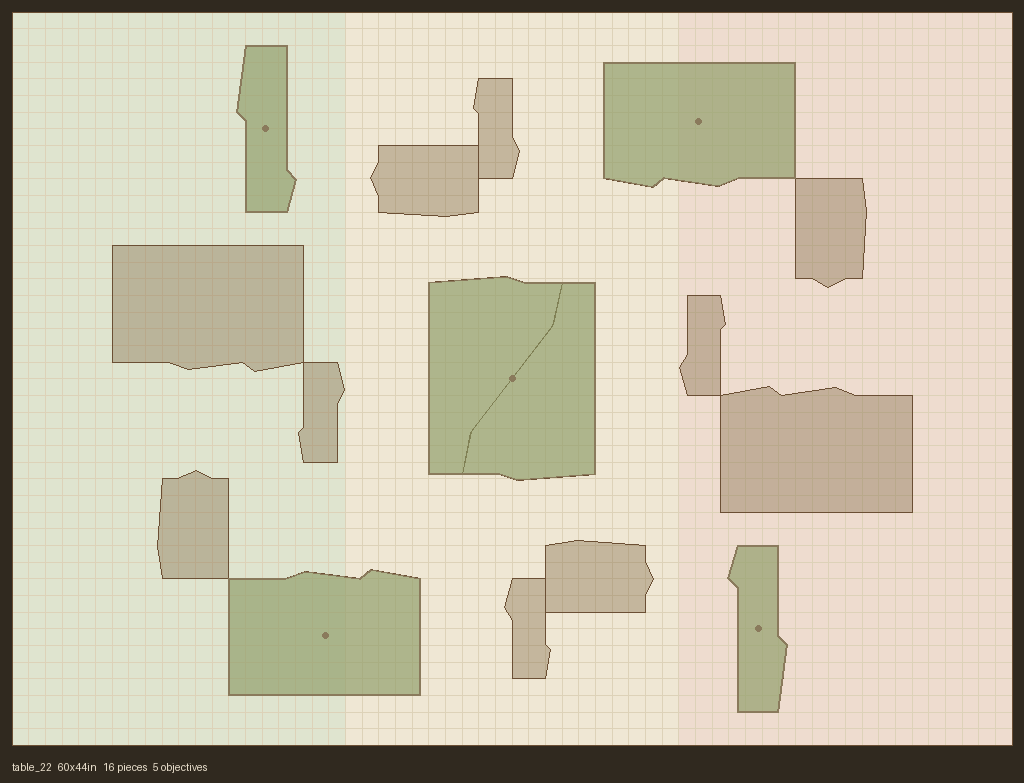
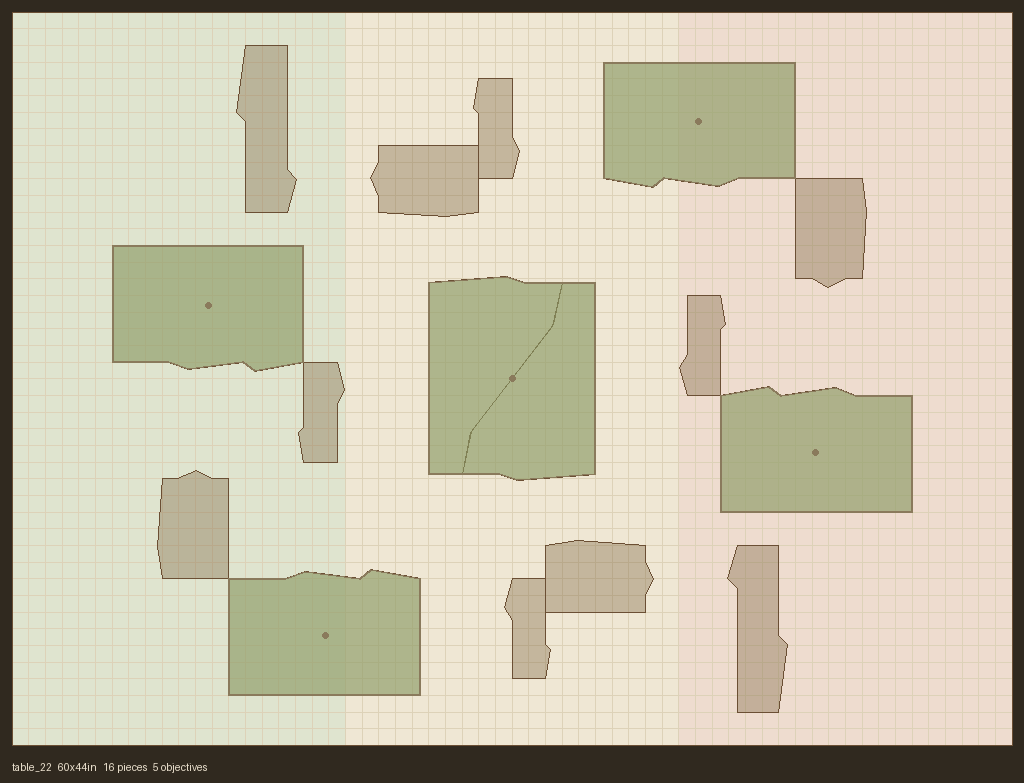
fix: the marker's reach is an authoring distance, not the control range
table_02 and table_06 disagreed with every one of their hand-traced objectives.
Both put two objectives on 25-38 sq in L-shapes while 82.5 sq in ruins sat a
little further off -- and the cause was using the rules' 3in control range to
decide which ruins a marker can designate.

The layouts do not place markers that way. They routinely put a marker
3.75-4.0in from the large ruin it plainly means, with a scrap of scatter
terrain 2-3in away on the other side, so a 3in cutoff excluded the real answer
and left only the scrap.

MARKER_REACH_IN is 4.5in, and the pool hands the number over rather than it
being fitted: marker-to-ruin distances cluster below 4in and again from 5in,
the 4.5 bin holds 2 of them against 18 just below and 28 just above, and the
resolution is identical anywhere in 4.0-5.0.

Measured against the objectives these tables used to carry by hand:
  agreement   84% (nearest) -> 91% (largest within 3in) -> 96% (within 4.5in)
  count match                                24/45 -> 41/45 -> 44/45
  per-table counts  {5:25, 6:20} against the hand-traced {5:24, 6:21}

And the two deployment zones now balance EXACTLY at 78/78 -- which was not
aimed at, and is the check that matters on point-symmetric boards.

Claude-Session: https://claude.ai/code/session_0127MrRtG1MgLetHCFW43vdr

Changed region(s): [[0.7188, 0.8889, 0.75, 0.9195], [0.7188, 0.7969, 0.75, 0.8276], [0.25, 0.1533, 0.2812, 0.1839]]

diff --git a/scripts/fetch_map_layouts.py b/scripts/fetch_map_layouts.py
@@ -28,7 +28,6 @@ import numpy as np
 from shapely.geometry import Polygon as ShapelyPolygon
 from shapely.ops import unary_union
 
-from wargame_rl.wargame.envs.domain.rules_constants import OBJECTIVE_MARKER_RANGE_IN
 from wargame_rl.wargame.envs.types.geometry import Polygon
 from wargame_rl.wargame.envs.types.terrain_observation import TERRAIN_VERTEX_BUDGET
 
@@ -66,6 +65,18 @@ RUIN_CONTACT_IN = 1.0
 # objective the layout plainly intends. Ties are resolved by taking all of them,
 # which is also what the hand-traced tables did: it reproduces their 5-or-6
 # objective split on 41 of 45 tables, against 24 when every marker took one.
+# How far the layout places a marker from the ruin it designates. **This is not
+# the rules' 3in control range**, and using that range was wrong: the layouts
+# routinely put a marker 3.75-4.0in from the large ruin it plainly means, with a
+# scrap of scatter terrain 2-3in away on the other side, so a 3in cutoff handed
+# the objective to the scrap. Measured over all 45 tables, marker-to-ruin
+# distances cluster below 4in and again from 5in, with a trough at 4.5 holding
+# only 2 of them against 18 just below and 28 just above -- and the resolution is
+# identical anywhere in 4.0-5.0, so the constant sits in a gap rather than on a
+# fitted edge. It lifts agreement with the hand-traced objectives from 91% to
+# 96%, and the objective count matches theirs on 44 of 45 tables.
+MARKER_REACH_IN = 4.5
+
 TIE_DISTANCE_IN = 1.0
 TIE_AREA_FRACTION = 0.01
 
@@ -329,7 +340,7 @@ def objectives_for(markers: list[Point], pieces: list[Polygon]) -> list[dict[str
     order = sorted(
         range(len(markers)),
         key=lambda m: (
-            sum(1 for d, _ in ranked(markers[m]) if d <= OBJECTIVE_MARKER_RANGE_IN),
+            sum(1 for d, _ in ranked(markers[m]) if d <= MARKER_REACH_IN),
             markers[m],
         ),
     )
@@ -340,7 +351,7 @@ def objectives_for(markers: list[Point], pieces: list[Polygon]) -> list[dict[str
         candidates = [
             (d, i)
             for d, i in ranked(markers[m])
-            if d <= OBJECTIVE_MARKER_RANGE_IN and i not in claimed
+            if d <= MARKER_REACH_IN and i not in claimed
         ]
         if not candidates:
             fallback = next(i for _, i in ranked(markers[m]) if i not in claimed)

diff --git a/tests/test_measure_maps.py b/tests/test_measure_maps.py
@@ -288,12 +288,12 @@ def test_no_shipped_objective_covers_part_of_a_ruin() -> None:
     225 objectives covering half a ruin. Every count still read five and every
     marker still resolved; only looking at a rendered table showed it.
 
-    **No disc objectives.** A marker beyond control range of every ruin resolves
-    to the nearest one anyway, because an objective that is not ground would be
-    the previous edition's free-standing marker under a new name.
+    **No disc objectives.** A marker out of reach of every ruin resolves to the
+    nearest one anyway, because an objective that is not ground would be the
+    previous edition's free-standing marker under a new name.
 
     **Five or six per table.** Each marker takes its own ruin -- the biggest one
-    within control range, since a marker sitting in a gap next to a scrap of
+    within `MARKER_REACH_IN`, since a marker sitting in a gap next to a scrap of
     scatter terrain would otherwise hand the objective to the scrap. A marker
     equidistant from two equally large ruins designates *both*, which is what
     makes a table carry six: these boards are point-symmetric, so the centre
@@ -321,7 +321,7 @@ def test_no_shipped_objective_covers_part_of_a_ruin() -> None:
                     f"{inside.mean():.0%} of piece {index}"
                 )
     # Five, or six where a marker's two candidates tie. Reproduces the
-    # hand-traced split on 41 of 45 tables, against 24 when ties were broken
-    # arbitrarily.
+    # hand-traced count on 44 of 45 tables, and lands 96% of objectives within
+    # 3in of a hand-picked one.
     assert set(counts) == {5, 6}
-    assert sum(counts) == 242
+    assert sum(counts) == 245

diff --git a/tests/test_map_layout_ingest.py b/tests/test_map_layout_ingest.py
@@ -320,3 +320,23 @@ def test_an_unequal_pair_is_not_a_tie() -> None:
     assert len(objectives) == 1
     area = Polygon.from_points([(x, y) for x, y in objectives[0]["area"]])
     assert area.contains(8.0, 4.0), "the big ruin"
+
+
+def test_a_big_ruin_just_out_of_control_range_still_wins() -> None:
+    """`MARKER_REACH_IN` is an authoring distance, not the rules' control range.
+
+    The layouts routinely place a marker 3.75-4.0in from the large ruin it
+    plainly designates, with a scrap of scatter terrain 2-3in away on the other
+    side. Cutting candidates at the rules' 3in handed the objective to the
+    scrap on `table_02` and `table_06`; both then disagreed with every one of
+    the hand-traced objectives for those tables.
+    """
+    scrap = Polygon.from_points([(0.0, 0.0), (4.0, 0.0), (4.0, 4.0), (0.0, 4.0)])
+    ruin = Polygon.from_points([(10.0, 0.0), (22.0, 0.0), (22.0, 8.0), (10.0, 8.0)])
+
+    # 2in from the scrap, 4in from the ruin -- outside control range, inside reach.
+    objectives = objectives_for([(6.0, 2.0)], [scrap, ruin])
+
+    assert len(objectives) == 1
+    area = Polygon.from_points([(x, y) for x, y in objectives[0]["area"]])
+    assert area.contains(16.0, 4.0), "the ruin four inches away, not the scrap two away"

diff --git a/wargame_rl/wargame/envs/CLAUDE.md b/wargame_rl/wargame/envs/CLAUDE.md
@@ -23,7 +23,7 @@ Applies to everything under `wargame_rl/wargame/envs/`.
 - **`random_terrain.count` is fixed while size and position vary** — `observations_to_tensor_batch` stacks terrain, so a varying piece count cannot be collated. `mirror: true` keeps the two fixed deployment zones on equal ground; `mirror_mode` picks how (`reflect_x`, the default, or `rotate_180`, which is the symmetry the authored tables are actually built on — under it the odd piece is centred in *both* axes). `angled_fraction` rotates that fraction of small pieces off-axis; a rotated piece is fitted to its **bounding box**, never the centroid-symmetric box, or an asymmetric outline outgrows the allotment it was sampled for and overlaps a neighbour. Both default to the existing behaviour
 - **`map_pool` is the third terrain mode, and the only one that trains on real tables.** `terrain` is one fixed board, `random_terrain` a generated one, and `map_pool` draws a whole layout — terrain *and* objectives — from a directory of `TerrainMapConfig` files, one per episode. All three are mutually exclusive; combining them is rejected at load, because one would silently overwrite the other. `MapPool` (`envs/map_pool.py`) parses every file, builds every polygon and runs every check **once at construction**, so a draw is an index; `place_for_episode` takes the drawn `MapLayout` as a plain domain value, which is what keeps the filesystem out of `domain/`. The draw comes off the layout RNG, so a seeded reset picks the same table twice, and `env.map_name` attributes an episode to it. A map that carries terrain alone falls through to the scenario's own objective placement, run against *that* layout's ruins. **`names` is the split and it is why the field exists**: training on every map leaves no layout the agent has not seen and makes a transfer number meaningless — `configs/experiments/25v25_real_maps.yaml` trains on 36 and holds out every table whose number is divisible by 5. **`map_pool.mirror` (default off) draws each layout in one of four orientations**, off the same RNG so a seeded episode still reproduces, and the name gains an `:x` / `:y` / `:xy` suffix so an episode stays attributable to its source table. Expect exactly **2x, not 4x** — the generated tables are point-symmetric to the measurement floor (median 0.00in from their own 180-degree rotation, worst 0.71; the hand-traced ones sat 1.7 out), so `rot180` is the identity and the `xy` flip IS the table while `x` IS `y`. Held-out tables stay held out: `names` filters at load, before any mirroring. Objective *count* varies per episode across a mixed pool, which `Battle.set_objectives` handles by mutating the list in place (the env and the renderers hold that list object from construction, so rebinding it would leave every alias on the previous episode's objectives)
 - **`objective_budget` / `terrain_budget` pad the observation so layouts of different sizes share one network.** Objective count is otherwise a hard input dimension (the per-model block is `2 + n_objectives * 2` wide), and piece count cannot collate — which is why the 45 real maps, carrying five objectives and 16 pieces each, can neither be batched together nor scored by a checkpoint trained on the generated scenario. Padding is marked, not implicit: the objective token gains a trailing `present` column and the per-model block one presence flag per slot beside its padded distance pairs, since a padding slot's `(0, 0)` delta would otherwise read as "standing on it"; terrain needs no new column, because its vertex count is zero only on padding. Both default to None and are then byte-identical to a config without them; setting either changes the embedding shapes, so old checkpoints fail loudly. Validation rejects a budget below what the config declares, and the builder refuses a layout that outgrows one at reset — `config_for_map` raises `number_of_objectives` by assignment, which Pydantic does not revalidate
-- **Fixed real layouts live outside the config**, in `configs/evaluation/maps/` as `TerrainMapConfig` files (a name, footprints, and optionally `objectives`). `just measure-maps` swaps one onto a scenario for final evaluation, clearing `random_terrain` as it does — leaving the generator on would regenerate a layout at reset and silently discard the map. A map's `objectives` replace the scenario's along with `number_of_objectives`, and clear `objective_min_separation` / `objective_terrain_clearance`, which govern the random draw the map replaces; every entry must be *determined* — an `area` outline or x/y — since `place_for_episode` honours fixed positions only when *all* of them carry coordinates, so one undetermined entry would silently randomise the rest. On the 45 shipped maps the objective **is the ground**, and since 2026-08-20 they are generated from the layout API by `just fetch-maps` rather than traced by hand. A layout's marker only says *which ground* is fought over, so each objective is a ruin's outline (an `area`; there are **no disc objectives**). **A ruin is a group of terrain pieces sharing at least 1" of boundary**, since the layouts split one rectangle along a diagonal or butt two bars into an L — resolving to the nearest *piece* made 30 of 225 objectives cover half a ruin. A marker takes the **largest unclaimed ruin within control range**, not the nearest: markers often sit in the gap beside a scrap of scatter terrain, and nearest-wins put objectives on 12.9 sq in slivers beside 82.5 sq in ruins. **A marker equidistant from two equally large ruins designates both**, which is why a table carries five *or six* -- the boards are point-symmetric, so the centre marker routinely sits between a ruin and its own reflection. None of this was caught by a count — free-standing markers are a previous edition's rule, which is why the hand-traced tables carried six. Of the 225 markers, 146 sit inside a piece and 71 more within control range; the remaining **8 are open ground** beyond control range of any ruin — four of them the exact board centre, placed there deliberately — and stay discs. Two markers on one ruin would merge, but that never fires on this pool, so every map carries five — see [configs/README.md](../../../configs/README.md), including why this saturates the scripted bar
+- **Fixed real layouts live outside the config**, in `configs/evaluation/maps/` as `TerrainMapConfig` files (a name, footprints, and optionally `objectives`). `just measure-maps` swaps one onto a scenario for final evaluation, clearing `random_terrain` as it does — leaving the generator on would regenerate a layout at reset and silently discard the map. A map's `objectives` replace the scenario's along with `number_of_objectives`, and clear `objective_min_separation` / `objective_terrain_clearance`, which govern the random draw the map replaces; every entry must be *determined* — an `area` outline or x/y — since `place_for_episode` honours fixed positions only when *all* of them carry coordinates, so one undetermined entry would silently randomise the rest. On the 45 shipped maps the objective **is the ground**, and since 2026-08-20 they are generated from the layout API by `just fetch-maps` rather than traced by hand. A layout's marker only says *which ground* is fought over, so each objective is a ruin's outline (an `area`; there are **no disc objectives**). **A ruin is a group of terrain pieces sharing at least 1" of boundary**, since the layouts split one rectangle along a diagonal or butt two bars into an L — resolving to the nearest *piece* made 30 of 225 objectives cover half a ruin. A marker takes the **largest unclaimed ruin within `MARKER_REACH_IN` (4.5")**, not the nearest and *not* the rules' 3" control range: markers often sit in the gap beside a scrap of scatter terrain, and the layouts place a marker 3.75-4.0" from the large ruin it plainly means, so both nearest-wins and a control-range cutoff handed objectives to 12.9 sq in slivers. 4.5" is an *authoring* distance and sits in a measured trough. **A marker equidistant from two equally large ruins designates both**, which is why a table carries five *or six* -- the boards are point-symmetric, so the centre marker routinely sits between a ruin and its own reflection. None of this was caught by a count — free-standing markers are a previous edition's rule, which is why the hand-traced tables carried six. Of the 225 markers, 146 sit inside a piece and 71 more within control range; the remaining **8 are open ground** beyond control range of any ruin — four of them the exact board centre, placed there deliberately — and stay discs. Two markers on one ruin would merge, but that never fires on this pool, so every map carries five — see [configs/README.md](../../../configs/README.md), including why this saturates the scripted bar
 - **Piece count is what makes cover available, not coverage.** `just measure-terrain <config>` reports *cells hidden from a squad* — the only number that matters, because exposure is "at least one enemy sees me". Batch 1/2's 7 pieces of 5-7 scored 0.058; 29 pieces of 3-7 scores 0.198 at similar coverage. Many small pieces beat few large ones. Tune a profile there, not after a training run
 - The packing validator bounds the **expected** footprint, not the worst case — bounding worst-case-square rejects exactly the wall-shaped specs it should allow. `_MAX_LAYOUT_ATTEMPTS` is the real backstop
 - `track_exposure: true` accumulates `env.exposure_rate`, `env.terrain_proximity` and `env.firepower_ratio` (`env_components/exposure.py`), all from one `compute_threat_counts` scan per shooting phase — it returns a `ThreatCounts` namedtuple with both threat counts and both "has a target" masks. All are `None`, never `0.0`, when unmeasured — 0.0 would read as "never exposed"

diff --git a/reports/2026-08-20-the-tables-are-generated-now.md b/reports/2026-08-20-the-tables-are-generated-now.md
@@ -68,15 +68,25 @@ two). **Nothing at all falls between 0.33" and 1.45"**, so 1.0" sits in empty
 space: 3.0x above the highest contact it separates, 1.45x below the lowest it
 joins.
 
-**The biggest ruin in control range wins, not the nearest.** A marker routinely
-sits in the *gap* between a real ruin and a scrap of scatter terrain, and
-nearest-wins handed the objective to the scrap — on `table_01` and `table_10`,
-two of five objectives came out on **12.9 sq in** slivers while **82.5 sq in**
-ruins stood two inches away. Control range is the rule's own measure: a model
-within 3" of the marker holds it, so every ruin inside that range is ground you
-could hold the objective from, and the one that dominates is what is being
-fought over. Measured against the hand-picked objectives these tables used to
-carry, largest-in-range agrees **91%** of the time against nearest's **84%**.
+**The biggest ruin in reach wins, not the nearest.** A marker routinely sits in
+the *gap* between a real ruin and a scrap of scatter terrain, and nearest-wins
+handed the objective to the scrap — on `table_01` and `table_10`, two of five
+objectives came out on **12.9 sq in** slivers while **82.5 sq in** ruins stood
+two inches away.
+
+**And "reach" is not the rules' control range.** Using the rules' 3" was the
+obvious choice and it was wrong: the layouts routinely place a marker
+**3.75–4.0" from the large ruin it plainly means**, with a scrap 2–3" away on
+the other side, so a 3" cutoff excluded the real answer and took the scrap. That
+is what `table_02` and `table_06` showed — every one of their five objectives
+disagreed with the hand-traced ones.
+
+The right cutoff is an **authoring** distance, and the pool hands it over.
+Marker-to-ruin distances cluster below 4" and again from 5", with a trough at
+4.5 holding **2** of them against 18 just below and 28 just above; the
+resolution is *identical* anywhere in 4.0–5.0, so the constant sits in a gap
+rather than on a fitted edge. Agreement with the hand-picked objectives:
+**96%** at 4.5", against 91% at the rules' 3" and 84% for nearest-wins.
 
 **One ruin per marker.** Sharing was the first rule here, on the reasoning that
 one piece of ground is held once. The pool refuted it: the only collisions were
@@ -94,17 +104,17 @@ broke the table's symmetry. Taking both restores it. This is not a tuned
 exception: it reproduces the hand-traced 5-or-6 split on **41 of 45 tables**,
 against 24 when every marker took exactly one.
 
-**And no discs.** Eight of 225 markers sit beyond control range of every ruin —
+**And no discs.** Eight of 225 markers sit beyond reach of every ruin —
 at most 5.16", four of them the exact board centre. They resolve to the nearest
 ruin anyway. An objective that is not ground would be the previous edition's
 free-standing marker under a new name. Six of the eight sit at *exactly* 3.00",
 one control range, so that ruin is precisely the ground you would hold the
 marker from; two (4.0" and 5.16") are a genuine approximation.
 
-Tables carry **five or six** objectives (28 and 17), none is a disc, and only
-one is under 20 sq in — a table where three markers contest two large ruins and
-the third is left the scrap. Objectives land within 3" of a hand-picked one
-**91%** of the time.
+Tables carry **five or six** objectives (25 and 20, against the hand-traced 24
+and 21), none is a disc, and the count matches the hand-traced one on **44 of
+45** tables. Objectives land within 3" of a hand-picked one **96%** of the
+time.
 
 ### What the tracing had actually done
 
@@ -120,9 +130,10 @@ chosen by eye for board symmetry. The tables also carried **six** objectives on
 Both were computed after the fact, and both came out exactly right — which is the
 strongest evidence the pipeline is faithful.
 
-- **The zone split is 76 / 77 across the two deployment zones** — one apart —
-  with 89 in the middle. The sides balancing to within one objective is the
-  check that matters, since the tables are point-symmetric; the middle is
+- **The zone split is 78 / 78 across the two deployment zones** — exactly
+  balanced — with 89 in the middle. The sides balancing to within one objective is the
+  That exact balance is the check that matters, since the tables are
+  point-symmetric, and it fell out rather than being aimed at; the middle is
   heavier because a tie is usually a pair of wedges flanking the board centre.
 - **The tables are point-symmetric to the measurement floor**: a table sits a
   median of **0.00"** from its own 180-degree rotation, worst 0.71". The

diff --git a/CLAUDE.md b/CLAUDE.md
@@ -293,21 +293,28 @@ Detailed patterns live next to the code they govern — read them when working i
 > ruin is not a terrain piece**: the layouts build one structure from several kit
 > pieces (a rectangle split along a diagonal seam, two bars butted into an L), so
 > pieces are grouped by **shared boundary ≥ 1.0"** — a threshold in empty space,
-> since nothing falls between 0.33" and 1.45". **(2) The biggest ruin in control
-> range wins, not the nearest**: a marker often sits in the *gap* beside a scrap
-> of scatter terrain, and nearest-wins put objectives on 12.9 sq in slivers while
-> 82.5 sq in ruins stood 2" away. Largest-in-range agrees with the old hand-picked
-> objectives **91%** against nearest's 84%. **(3) One ruin per marker** (sharing
+> since nothing falls between 0.33" and 1.45". **(2) The biggest ruin in
+> REACH wins, not the nearest — and reach is NOT the rules' control range**: a
+> marker often sits in the *gap* beside a scrap of scatter terrain, and
+> nearest-wins put objectives on 12.9 sq in slivers while 82.5 sq in ruins stood
+> 2" away. Using the rules' 3" was the obvious cutoff and also wrong, because the
+> layouts place a marker **3.75–4.0" from the large ruin it plainly means**.
+> `MARKER_REACH_IN` is **4.5"**, an *authoring* distance: marker-to-ruin
+> distances cluster below 4" and again from 5", the 4.5 bin holds 2 against 18
+> and 28 either side, and the resolution is identical anywhere in 4.0–5.0.
+> Agreement with the hand-picked objectives **96%**, against 91% at 3" and 84%
+> for nearest. **(3) One ruin per marker** (sharing
 > collapsed two objectives whose markers were *twelve to seventeen inches apart*)
 > — **except on a tie, where the marker designates both**: these boards are
 > point-symmetric, so the centre marker routinely sits in the gap between a ruin
 > and its own reflection (on `table_01`, 1.02" from each of two 58.5 sq in wedges
 > with mirror-image centroids), and picking one by list order drops an objective
 > and breaks the symmetry. **That is what makes a table carry six**, and it
-> reproduces the hand-traced 5-or-6 split on **41 of 45** tables against 24
-> otherwise. Tables carry five or six (28 and 17).
-> There are **no disc objectives** — a marker beyond control range of every ruin
-> takes the nearest anyway, since an objective that is not ground is the previous
+> reproduces the hand-traced 5-or-6 split on **44 of 45** tables against 24
+> otherwise. Tables carry five or six (25 and 20, against the hand-traced 24 and
+> 21), and the two deployment zones balance **exactly** at 78/78.
+> There are **no disc objectives** — a marker beyond reach of every ruin takes
+> the nearest anyway, since an objective that is not ground is the previous
 > edition's marker under a new name. Every table carries five. ⚠ **All three
 > defects passed every structural check and were caught by eye on a rendered
 > table** — counts, splits, resolution rates and invariance all held while 30 of

diff --git a/configs/README.md b/configs/README.md
@@ -60,8 +60,8 @@ makes a positioning result falsifiable, but it never asks how the policy does on
 the boards the game is actually played on, and it cannot: the generator places
 objectives only in the contested middle, while the real layouts put a third of
 them inside each player's own deployment zone. Measured across all 45 tables,
-the split is 76 player-zone / 89 middle / 77 opponent-zone, every table
-point-symmetric — the two deployment zones balance to within one objective,
+the split is 78 player-zone / 89 middle / 78 opponent-zone, every table
+point-symmetric — the two deployment zones balance exactly,
 which is the check that matters, while the middle is heavier because a marker
 equidistant from two equally large ruins designates both and those pairs flank
 the board centre. **That is a different mission, not a harder board** — win rate
@@ -83,15 +83,18 @@ worst 1.078 of the true silhouette against the footprint rectangle's 1.592.
 boundary.** A layout's marker only says *which ground* is fought over. The pieces
 are kit components, not buildings: a rectangle split along a diagonal seam, two
 bars butted into an L, drawn as one blob by the source's own render. A marker
-takes the **largest unclaimed ruin within control range** — not the nearest,
-because markers often sit in the gap beside a scrap of scatter terrain, and
-nearest-wins put objectives on 12.9 sq in slivers while 82.5 sq in ruins stood
-two inches away. **There are no disc objectives**; a marker beyond range of every
+takes the **largest unclaimed ruin within 4.5"** — not the nearest, and not the
+rules' 3" control range. Markers often sit in the gap beside a scrap of scatter
+terrain, and the layouts place a marker 3.75–4.0" from the large ruin it plainly
+means, so both alternatives put objectives on 12.9 sq in slivers while 82.5 sq in
+ruins stood a little further off. 4.5" is an *authoring* distance and sits in a
+measured trough in the marker-to-ruin distances. **There are no disc objectives**; a marker beyond range of every
 ruin takes the nearest anyway. A marker equidistant from two equally large ruins
 designates **both** — the boards are point-symmetric, so the centre marker
 routinely sits between a ruin and its own reflection, and picking one would break
-the symmetry. Tables carry **five or six** objectives (28 and 17), which
-reproduces the hand-traced split on 41 of 45.
+the symmetry. Tables carry **five or six** objectives (25 and 20), which reproduces the
+hand-traced count on 44 of 45 tables, with 96% of objectives landing within 3" of
+a hand-picked one.
 
 **Training on these maps consumes them.** `map_pool.names` is the split: name a
 subset for training and score the complement, or a transfer number means
